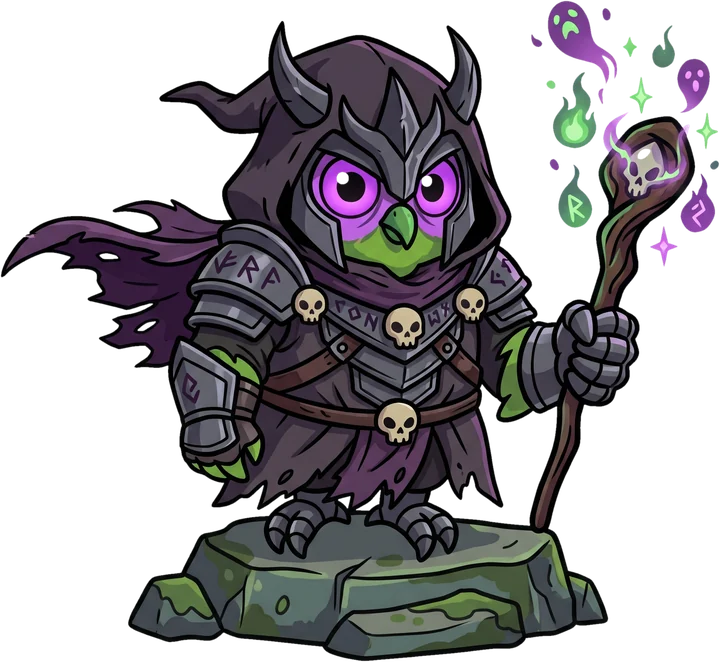
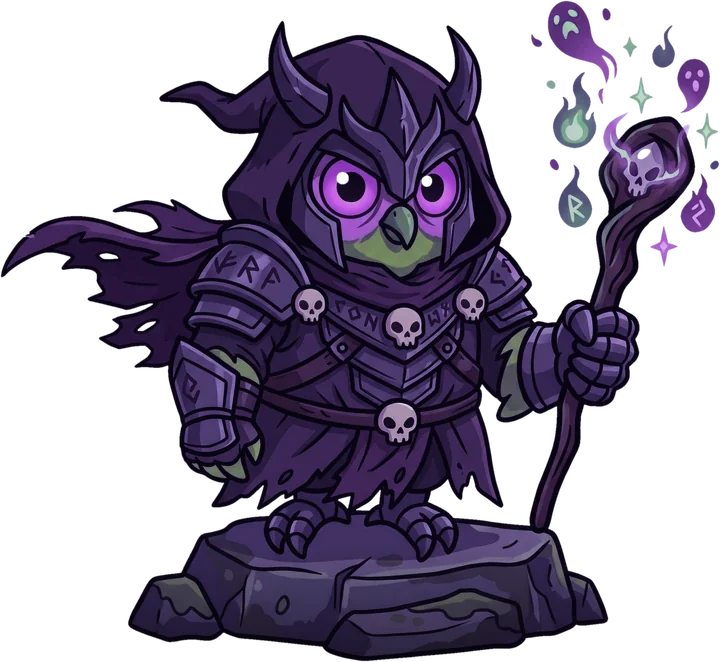
Halloween: el Señor de las Almas toma los tonos morados del escenario
Búho teñido con la paleta de la cripta, bruma delante de la roca,
cielo con estrellas y castillo lejano.

Claude-Session: https://claude.ai/code/session_01DezhVgtjFZoxEn5KtBbC3A

Changed region(s): [[0.0, 0.0, 1.0, 0.997], [0.2444, 0.1208, 0.3056, 0.1511], [0.9167, 0.3625, 0.9472, 0.3927]]

diff --git a/assets/tema.js b/assets/tema.js
@@ -395,7 +395,10 @@
     var stS = document.createElement('style');
     stS.textContent = [
       // Cripta: cielo morado con niebla verde de almas
-      'html.tema-halloween .escena{background:radial-gradient(42% 34% at 50% 58%,rgba(157,92,255,.34),transparent 72%),radial-gradient(70% 30% at 50% 100%,rgba(110,255,140,.16),transparent 70%),linear-gradient(#0e0619,#1b0c31 58%,#0a0512)!important}',
+      'html.tema-halloween .escena{background:radial-gradient(38% 30% at 50% 60%,rgba(157,92,255,.38),transparent 72%),radial-gradient(90% 26% at 50% 100%,rgba(110,255,160,.14),transparent 70%),radial-gradient(1.2px 1.2px at 14% 12%,#fff 50%,transparent 51%),radial-gradient(1px 1px at 33% 22%,#e9dcff 50%,transparent 51%),radial-gradient(1.4px 1.4px at 61% 8%,#fff 50%,transparent 51%),radial-gradient(1px 1px at 78% 30%,#e9dcff 50%,transparent 51%),radial-gradient(1.2px 1.2px at 46% 34%,#fff 50%,transparent 51%),radial-gradient(1px 1px at 8% 40%,#e9dcff 50%,transparent 51%),linear-gradient(#0b0516,#1c0c34 52%,#24113f 70%,#0c0617)!important}',
+      // Bruma delante de la roca: el búho queda dentro de la escena
+      '.hal-bruma{position:absolute;left:-10%;right:-10%;bottom:6%;height:24%;z-index:1;pointer-events:none;background:radial-gradient(40% 55% at 30% 60%,rgba(170,140,230,.28),transparent 70%),radial-gradient(38% 50% at 70% 70%,rgba(140,230,170,.16),transparent 70%),radial-gradient(60% 40% at 50% 90%,rgba(30,14,52,.9),transparent 75%);filter:blur(6px);animation:halNiebla 14s ease-in-out infinite alternate}',
+      '.hal-cripta .castillo{opacity:.85}',
       'html.tema-halloween .escena .nubes,html.tema-halloween .escena .plat{display:none}',
       'html.tema-halloween .escena::before{opacity:.35;filter:hue-rotate(60deg)}',
       'html.tema-halloween .escena .halo{background:radial-gradient(circle,rgba(157,92,255,.45),transparent 65%)!important;animation:halLatido 3.4s ease-in-out infinite}',
@@ -409,8 +412,8 @@
       // El Señor de las Almas: flota con aura morada y su báculo echa llamas
       'html.tema-halloween .buho{width:44%!important;bottom:15%!important}',
       'html.tema-halloween #buho>:not(.hal-senor):not(.hal-llama){display:none!important}',
-      '#buho .hal-senor{display:block;width:100%;height:auto;user-select:none;filter:drop-shadow(0 0 14px rgba(157,92,255,.55)) drop-shadow(0 8px 6px rgba(0,0,0,.5));animation:halSenor 4s ease-in-out infinite}',
-      '@keyframes halSenor{0%,100%{transform:translateY(0)}50%{transform:translateY(-3.5%);filter:drop-shadow(0 0 26px rgba(157,92,255,.85)) drop-shadow(0 14px 8px rgba(0,0,0,.4))}}',
+      '#buho .hal-senor{display:block;width:100%;height:auto;user-select:none;filter:drop-shadow(0 0 2px rgba(190,150,255,.7)) drop-shadow(0 0 18px rgba(157,92,255,.5));animation:halSenor 4s ease-in-out infinite}',
+      '@keyframes halSenor{0%,100%{transform:translateY(0)}50%{transform:translateY(-3.5%);filter:drop-shadow(0 0 3px rgba(200,165,255,.85)) drop-shadow(0 0 28px rgba(157,92,255,.75))}}',
       '#buho .hal-senor.conjuro{animation:halConjuro .7s ease-out}',
       '@keyframes halConjuro{30%{transform:scale(1.07) rotate(-2deg);filter:drop-shadow(0 0 34px #b98cff) brightness(1.25)}}',
       '.hal-llama{position:absolute;left:var(--x);top:var(--y);width:7%;aspect-ratio:.7;border-radius:50% 50% 50% 50%/60% 60% 40% 40%;background:radial-gradient(circle at 50% 70%,#E6FFD9,#7CFF8A 40%,rgba(80,220,120,0) 72%);mix-blend-mode:screen;animation:halLlama 1.8s ease-in-out infinite;pointer-events:none}',
@@ -438,6 +441,7 @@
 
     var ALMA = '<svg viewBox="0 0 30 40"><path d="M15 2C7 2 3 8 3 16v20l4-4 4 4 4-4 4 4 4-4 4 4V16C27 8 23 2 15 2z" fill="#E9DDFF" opacity=".9"/><ellipse cx="11" cy="15" rx="2" ry="3" fill="#3b1d66"/><ellipse cx="19" cy="15" rx="2" ry="3" fill="#3b1d66"/></svg>';
     var CRIPTA = '<svg viewBox="0 0 400 140" preserveAspectRatio="xMidYMax slice">' +
+      '<g class="castillo" fill="#1d0f33"><path d="M150 100V66h6v-8h4v8h6v-14l7-10 7 10v14h10V56l9-14 9 14v24h8V62h6v-8h4v8h6v38z"/><rect x="176" y="62" width="3" height="5" fill="#FFB347" opacity=".8"/><rect x="202" y="64" width="3" height="5" fill="#9BFF3C" opacity=".6"/><rect x="224" y="72" width="3" height="4" fill="#FFB347" opacity=".7"/></g>' +
       '<path d="M0 140V92q50-18 100-8t100-10 100 12 100-8v62z" fill="#160a26"/>' +
       '<path d="M30 140l5-70q-14-10-28-12 15 0 27 8l-2-30 6 26q8-12 20-14-12 8-16 20l2 72z" fill="#0b0613"/>' +
       '<path d="M352 140l4-56q-12-8-24-10 13 0 23 6l1-24 5 22q7-10 18-12-10 6-14 16l2 58z" fill="#0b0613"/>' +
@@ -457,6 +461,7 @@
         var n = document.createElement('div'); n.className = 'hal-nombre'; n.setAttribute('aria-hidden', 'true');
         n.innerHTML = 'Señor de las <b>Almas</b>';
         esc.appendChild(n);
+        var br = document.createElement('div'); br.className = 'hal-bruma'; br.setAttribute('aria-hidden', 'true'); esc.appendChild(br);
         bu.insertAdjacentHTML('beforeend', '<i class="hal-llama" style="--x:85%;--y:2%"></i><i class="hal-llama m" style="--x:79%;--y:8%;animation-delay:-.6s"></i><i class="hal-llama" style="--x:90%;--y:12%;animation-delay:-1.2s"></i>');
         // Al tocarlo lanza almas con un lamento
         bu.addEventListener('click', function () {
@@ -475,7 +480,7 @@
         bu.appendChild(im);
       }
     }
-    quitar.push(function () { document.querySelectorAll('.hal-cripta,.hal-nombre,.hal-llama,#buho .hal-senor').forEach(function (e) { e.remove(); }); });
+    quitar.push(function () { document.querySelectorAll('.hal-cripta,.hal-nombre,.hal-bruma,.hal-llama,#buho .hal-senor').forEach(function (e) { e.remove(); }); });
 
     var vigia = null, tColor = null;
     function revisar() {
